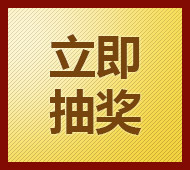
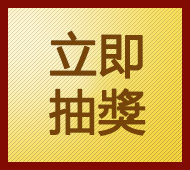
简体改繁体

Changed region(s): [[0.2368, 0.1765, 0.7632, 0.8235], [0.3947, 0.3235, 0.4474, 0.4118]]

diff --git a/ruoyi-index/src/App.vue b/ruoyi-index/src/App.vue
@@ -70,24 +70,24 @@
     <div id="mask-rule" ref="mask-rule" :class="activeClass? 'active':''  ">
       <div class="box-rule">
         <span class="star"></span>
-        <h2>活动说明</h2>
+        <h2>活動說明</h2>
         <span id="close-rule" @click="hiddenMaskRule"></span>
         <div class="con">
           <div class="text">
-            活动规则： <br>
-            1、凭手气赢奖品！百分百中奖！ <br>
-            2、中奖后联系下方客服发送邀请码进行兑奖。 <br>
-            3、填写的姓名、电话和联系地址必须真实，否则奖品没办法寄送。 <br>
+            活動規則： <br>
+            1、憑手氣贏獎品！百分百中獎！ <br>
+            2、中獎後聯系下方客服發送邀請碼進行兌獎。 <br>
+            3、填寫的姓名、電話和聯系地址必須真實，否則獎品沒辦法寄送。 <br>
             <p>
               <br>
             </p>                       <br>
             <div id="times">
               <div>
-                剩余抽奖次数：<span id="curtimes5">{{ lotteryCountNum }}</span><br>
+                剩余抽獎次數：<span id="curtimes5">{{ lotteryCountNum }}</span><br>
               </div>
             </div>
             <hr class="hr0">
-            活动时间：<br>2024-08-08 08:00至2088-08-08 08:00 <br><br>
+            活動時間：<br>2024-08-08 08:00至2088-08-08 08:00 <br><br>
           </div>
         </div>
       </div>
@@ -97,7 +97,7 @@
     <div id="mask-my" ref="mask-my" :class="activeMyClass? 'active':''  ">
       <div class="box-my">
         <span class="star"></span>
-        <h2>中奖记录</h2>
+        <h2>中獎記錄</h2>
         <span id="close-my" @click="hiddenMaskMy"></span>
         <div class="con">
           <div class="text">
@@ -106,7 +106,7 @@
                 {{ code }}</h4>
             </div>
             <div class="Detail" v-for="(item,index) in lotteryList">
-              <b style='color:#000'>奖品：{{ item.name }}</b> <span
+              <b style='color:#000'>獎品：{{ item.name }}</b> <span
               style='color:gray; white-space:nowrap'>[{{ item.lotteryTime }}]</span><br>
               <hr>
             </div>

diff --git a/ruoyi-admin/src/main/java/com/ruoyi/web/controller/lottery/PlayController.java b/ruoyi-admin/src/main/java/com/ruoyi/web/controller/lottery/PlayController.java
@@ -46,9 +46,9 @@ public class PlayController extends BaseController {
             return AjaxResult.warn("非法邀请码");
         }
         // 可抽奖次数
-        int count = lotteryCodeMapper.countLottery(code.getCode());
+        Integer count = lotteryCodeMapper.countLottery(code.getCode());
 
-        if (count <= 0) {
+        if (count == null || count <= 0) {
             return AjaxResult.warn("抽奖次数为0,无法继续抽奖");
         }
 
@@ -82,9 +82,9 @@ public class PlayController extends BaseController {
         AjaxResult ajax = AjaxResult.success();
         synchronized (this) {
             // 可抽奖次数
-            int count = lotteryCodeMapper.countLottery(code.getCode());
+            Integer count = lotteryCodeMapper.countLottery(code.getCode());
 
-            if (count <= 0) {
+            if (count == null || count <= 0) {
                 // throw new IllegalArgumentException("抽奖次数为0,无法继续抽奖");
                 return AjaxResult.warn("抽奖次数为0,无法继续抽奖");
             }

diff --git a/ruoyi-system/src/main/java/com/ruoyi/system/mapper/LotteryCodeMapper.java b/ruoyi-system/src/main/java/com/ruoyi/system/mapper/LotteryCodeMapper.java
@@ -10,15 +10,15 @@ public interface LotteryCodeMapper {
 
     LotteryCode findCodeByName(String name);
 
-    int countLottery(String code);
+    Integer countLottery(String code);
 
-    int updateCountLottery(String code);
+    Integer updateCountLottery(String code);
 
-    int insertCode(LotteryCode code);
+    Integer insertCode(LotteryCode code);
 
-    int actionCodeDone(@Param("id") Long id, @Param("status") Integer status);
+    Integer actionCodeDone(@Param("id") Long id, @Param("status") Integer status);
 
     LotteryCode selectCodeById(Long id);
 
-    int deleteCodeByIds(Long[] ids);
+    Integer deleteCodeByIds(Long[] ids);
 }
